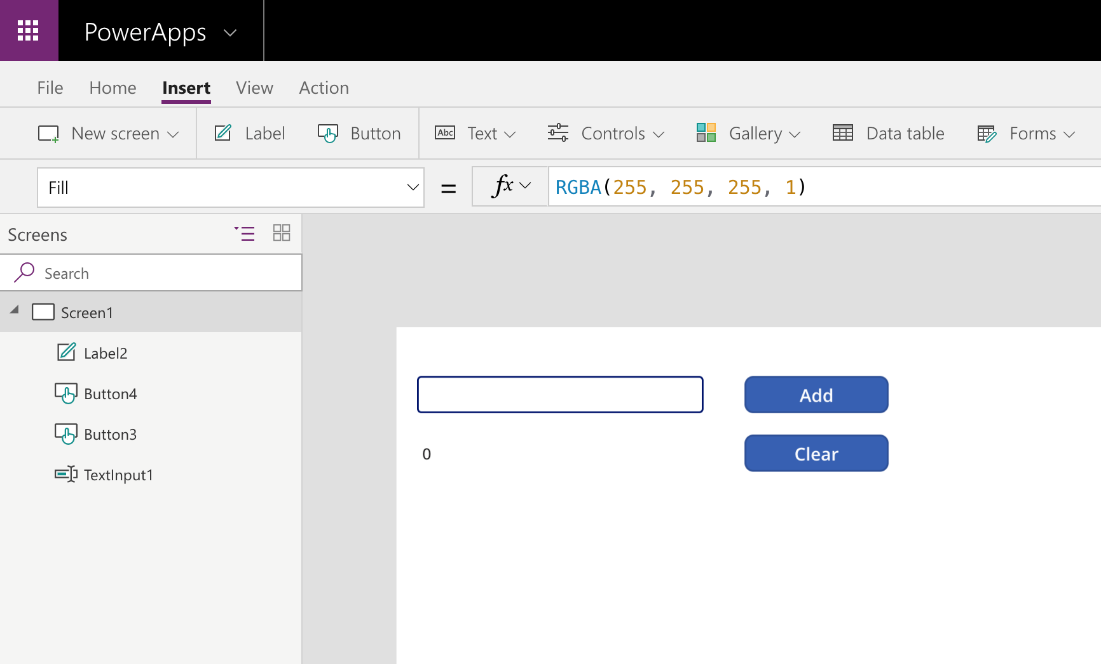
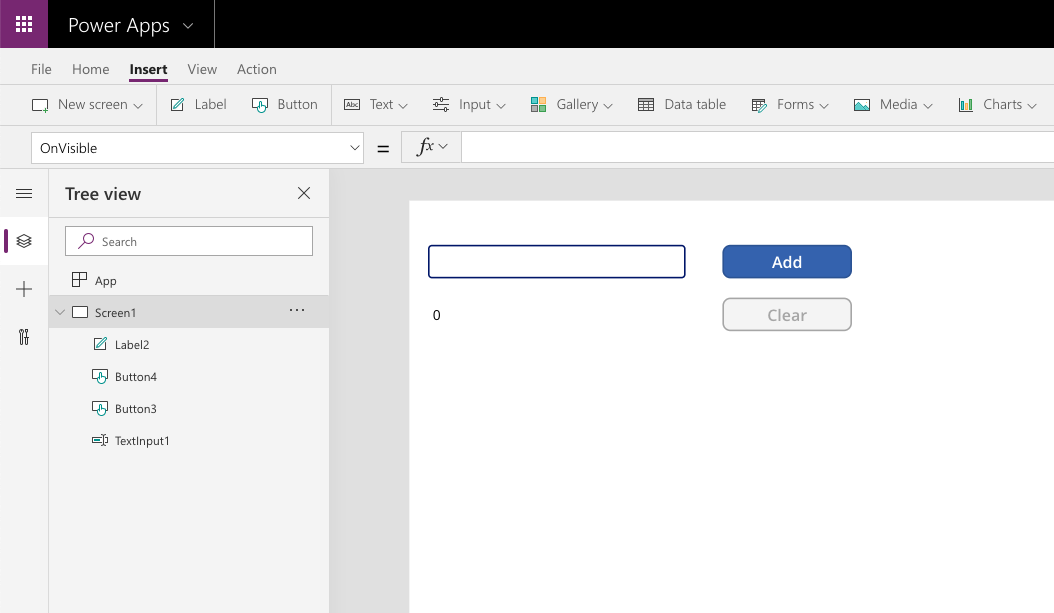
spring updates

Changed region(s): [[0.0, 0.0, 1.0, 1.0], [0.0, 0.31, 0.3036, 0.7439]]

diff --git a/learn-bizapps-pr/powerapps/author-basic-formula-change-behaviors-powerapps/includes/1-formulas-behaviors-overview.md b/learn-bizapps-pr/powerapps/author-basic-formula-change-behaviors-powerapps/includes/1-formulas-behaviors-overview.md
@@ -5,8 +5,39 @@ is done by writing a simple formula to update the **Visible** property
 of the control. Or maybe instead of hiding the control, you set the
 **DisplayMode** property to **View** which removes the ability to edit
 that control. There are many more scenarios where this type of formula
-can be implemented in a canvas app. By effectively utilizing these
+can be implemented in a canvas app. By utilizing these
 formulas in your canvas app to modify the **DisplayMode** and or
 **Visible** properties of a control, you can develop a more
 user-friendly app.
+
+Let's take a look at how you can apply this formula to show and hide a button in a gallery based on the information in our data source. For this example, we will be creating a collection called “TestScoresCollection".
+
+1.	In your canvas app, add a Button control to the screen.
+
+2.	Set the OnSelect property for the button to be
+```powerappsfl
+ClearCollect(TestScoresCollection,{Name:"Student 1", TestScore:"B"},{Name:"Student 2", TestScore:"C"},{Name:"Student 3", TestScore:"A"},{Name:"Student 4", TestScore:"C"},{Name:"Student 5", TestScore:"A"})
+```
+3.	Hold the alt key on your keyboard and click the Button. (This will generate the TestScoresCollection)
+
+4.	Select **Gallery** from the ribbon **Insert tab**.
+
+5.	From the dropdown, select Vertical. (You may want to reposition the button to the right of the screen so the gallery reaches from the top of the canvas to the bottom)
+
+6.	With the gallery still selected, set the Items property to be TestScoresCollection.
+
+7.	The gallery will update and should now be showing all the information from the TestScoresCollection.
+
+8.	Select the first row of the gallery and from the ribbon select Button.
+
+9.	Change the Button text property from Button to Retake Quiz.
+
+10.	With the button still selected, click the properties drop down and select Visible.
+
+11.	In the formula box, enter the following code so that this button will only be visible for student grades lower than a B.
+```powerappsfl
+If(ThisItem.TestScore = "A" Or ThisItem.TestScore = "B",false,true)
+```
+
+To quickly break this down, if the student gets a test score of an A or a B, they will not be able to see the button or retake the quiz. But if the student gets anything other than those two tests scores, they will be able to see the button and retake the quiz. We may be getting ahead of ourselves by using ThisItem as well as Or but doing so is common when building apps and is useful when building your own production apps. 
 

diff --git a/learn-bizapps-pr/powerapps/author-basic-formula-change-behaviors-powerapps/includes/2-understanding-true-false.md b/learn-bizapps-pr/powerapps/author-basic-formula-change-behaviors-powerapps/includes/2-understanding-true-false.md
@@ -28,7 +28,7 @@ shows how to hide an **Icon** control based on the value of a
 2.  Insert an **Emoji-Smile Icon** control.
 
 3.  Set the **Visible** property of the **Icon** control to:
-    **Slider1.Value \>= 50**
+    **Slider1.Value >= 50**
 
 4.  Preview the app and move the slider value up and down. When
     the value is greater than or equal to 50, the Emoji-Smile Icon will
@@ -62,7 +62,7 @@ false.
 
 1.  On the same canvas insert an **Emoji-Frown Icon** control.
 
-2.  Set the **Visible** property to: **Not(icon1.Visible)**
+2.  Set the **Visible** property to: **Not(Icon1.Visible)**
 
 3.  Preview the app and move the slider value up and down. When
     the value is greater than or equal to 50, the Emoji-Smile Icon will

diff --git a/learn-bizapps-pr/powerapps/author-basic-formula-change-behaviors-powerapps/includes/3-understanding-control-behaviors-actions.md b/learn-bizapps-pr/powerapps/author-basic-formula-change-behaviors-powerapps/includes/3-understanding-control-behaviors-actions.md
@@ -53,12 +53,12 @@ A very simple but popular example of using the **Button** control is
 to change screens when the button is selected. This can be accomplished
 using the following formula.
 
-```
+```powerappsfl
 Navigate(Screen2,ScreenTransition.Cover)
 ```
 
 
-![Navigate_Button](../media/Navigate_Button.png)
+![Navigate_Button](../media/navigate_button.png)
 
 In the example above, the **OnSelect** property for the **Button1**
 control triggers the **Navigate** function. Now, when a user selects the

diff --git a/learn-bizapps-pr/powerapps/author-basic-formula-change-behaviors-powerapps/includes/6-combine-formulas-single-statement.md b/learn-bizapps-pr/powerapps/author-basic-formula-change-behaviors-powerapps/includes/6-combine-formulas-single-statement.md
@@ -48,7 +48,7 @@ instead of evaluating a **Context Variable** you decided to use the
 **Label** (Label2). The **DisplayMode** property for your **Clear**
 button would now look like the following.
 
-```
+```powerappsfl
 If(Value(Label2.Text) > 0, DisplayMode.Edit, DisplayMode.Disabled) 
 ```
 

diff --git a/learn-bizapps-pr/powerapps/author-basic-formula-change-behaviors-powerapps/includes/4-controlling-visible-through-formula.md b/learn-bizapps-pr/powerapps/author-basic-formula-change-behaviors-powerapps/includes/4-controlling-visible-through-formula.md
@@ -11,7 +11,7 @@ use the semicolon (;).
 Continuing with the previous example, add an **UpdateContext** function to
 the formula.
 
-```
+```powerappsfl
 UpdateContext( { x: 1 } ); Navigate(Screen2,ScreenTransition.Cover)
 ```
 
